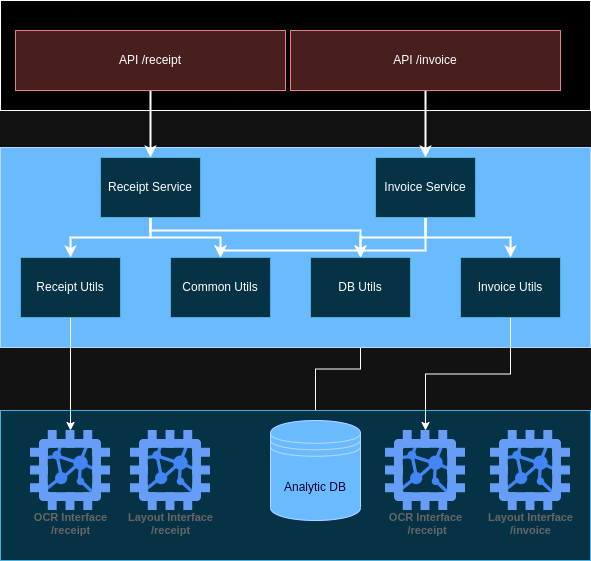
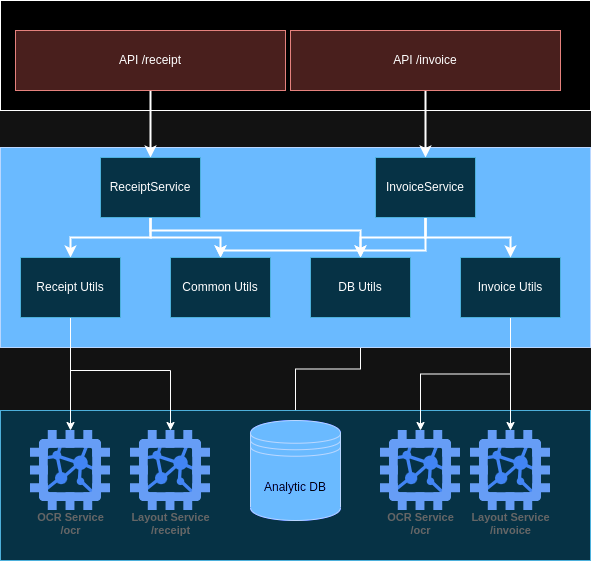
Update drawing and writings

diff --git a/_posts/2022-06-02-blog-post-title-from-file-name.md b/_posts/2022-06-02-blog-post-title-from-file-name.md
@@ -13,7 +13,7 @@ Let's take a look at the overall design again
 |----------------|----------------------------------|---------|-------------------------------------|
 | 1              | VPN master (Netmaker host)       | Cloud   | Ubuntu 20.04.5 LTS 1 core - 4GB           |
 | 2              | Receipt service                  | Cloud   | Ubuntu 20.04.5 LTS 2 core - 8GB           |
-| 3              | OCR Interface Analytic Interface | Cloud   | Ubuntu 22.04.2 LTS 2 cores - 8GB          |
+| 3              | OCR Service/Analytic Service     | Cloud   | Ubuntu 22.04.2 LTS 2 cores - 8GB          |
 | 4              | Workstation node                 | On Prem | Ubuntu 22.04.2 LTS 8 cores - 32GB Has GPU |
 | 5              | Workstation node                 | On Prem | Ubuntu 20.04.5 LTS 8 cores - 32GB Has GPU |
 
@@ -91,9 +91,7 @@ For each microservice, I wrote two files: deployment.yaml and service.yaml. For 
     └── website.yaml
 ```
 
-The cloud_platform is the Receipt Microservice, gpu_platform is the OCR Engine and line_item is the Layout Analytic Engine. OCR service is my tensorflow serving deployment.
-
-Each service, except the Tensorflow Serving, use the Flask + Gunicorn stacks. Design of the Receipt Service will look like 
+Each service, except the Tensorflow Serving, use the Flask + Gunicorn stacks. Design of the Document Service will look like 
 
 ![Component](https://github.com/truongpl/truongpl.github.io/raw/main/docs/assets/Component.png)
 

diff --git a/_posts/2022-06-03-blog-post-title-from-file-name.md b/_posts/2022-06-03-blog-post-title-from-file-name.md
@@ -19,7 +19,7 @@ The cloud machines cost hosting fee, two workstations cost electricity and inter
 |----------------|----------------------|---------------------------------|------|-------------------------|
 | 1              | VPN Master           | Ubuntu 20.04.5 LTS 1 core - 4GB | 14$  | Cloud fee               |
 | 2              | Receipt service      | Ubuntu 20.04.5 LTS 2 core - 8GB | 84$  | Cloud fee               |
-| 3              | OCR/Layout Interface | Ubuntu 20.04.5 LTS 2 core - 8GB | 84$  | Cloud fee               |
+| 3              | OCR/Layout Service   | Ubuntu 20.04.5 LTS 2 core - 8GB | 84$  | Cloud fee               |
 | 4              | Workstation 1        | Above                           | 50$  | Electricity + internet fee |
 | 5              | Workstation 1        | Above                           | 50$  | Electricity + internet fee |
 | 6              | DB Instance          |                                 | 15$  | Cloud fee               |
